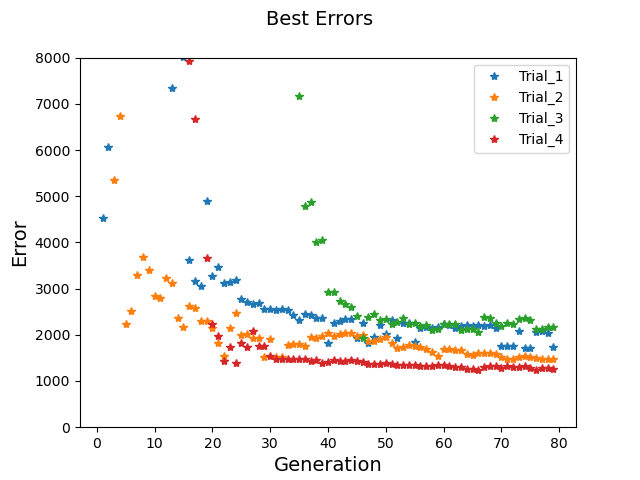
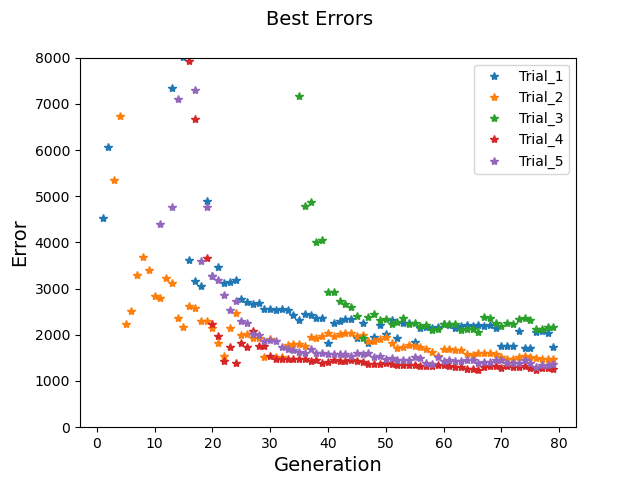
newind

diff --git a/plot_GA.py b/plot_GA.py
@@ -16,25 +16,31 @@ ind_1 = pd.read_excel('Best_ind_1.xlsx')
 ind_1 = ind_1.to_dict('index')
 
 t1, v1 = plot_GA(ind_1)
-plt.plot(t1, v1, '-b', label = 'Trial_1')
+plt.plot(t1, v1, label = 'Trial_1')
 
 ind_2 = pd.read_excel('Best_ind_2.xlsx')
 ind_2 = ind_2.to_dict('index')
 
 t2, v2 = plot_GA(ind_2)
-plt.plot(t2, v2, '-m', label = 'Trial_2')
+plt.plot(t2, v2, label = 'Trial_2')
 
 ind_3 = pd.read_excel('Best_ind_3.xlsx')
 ind_3 = ind_3.to_dict('index')
 
 t3, v3 = plot_GA(ind_3)
-plt.plot(t3, v3, '-r', label = 'Trial_3')
+plt.plot(t3, v3, label = 'Trial_3')
 
 ind_4 = pd.read_excel('Best_ind_4.xlsx')
 ind_4 = ind_4.to_dict('index')
 
 t4, v4 = plot_GA(ind_4)
-plt.plot(t4, v4, '-g', label = 'Trial_4')
+plt.plot(t4, v4, label = 'Trial_4')
+
+ind_5 = pd.read_excel('Best_ind_5.xlsx')
+ind_5 = ind_5.to_dict('index')
+
+t5, v5 = plot_GA(ind_5)
+plt.plot(t4, v4, label = 'Trial_5')
 
 plt.legend()
 plt.ylabel('Voltage (mV)', fontsize=14)
@@ -62,6 +68,10 @@ plt.plot(gen, best_err_3,'*', label = 'Trial_3')
 err_4 = pd.read_excel('Errors_4.xlsx')
 best_err_4 = list(err_4['Avg Error'])
 plt.plot(gen, best_err_4,'*', label = 'Trial_4')
+
+err_5 = pd.read_excel('Errors_5.xlsx')
+best_err_5 = list(err_5['Best Error'])
+plt.plot(gen, best_err_5,'*', label = 'Trial_5')
 
 plt.legend()
 plt.ylabel('Error', fontsize=14)
